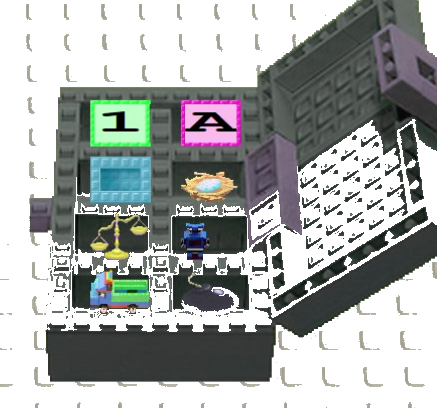
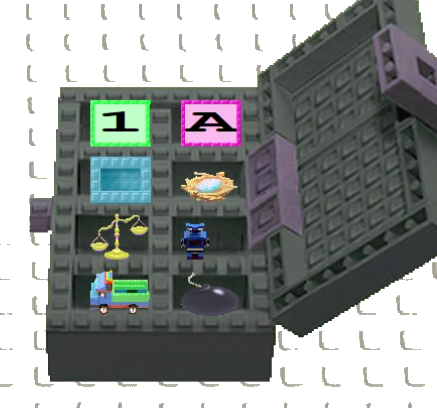
Toolbox: fix keying (dark pixels were transparent) + enlarge
The flood-fill seeds had landed on the dark grey tray and eaten the
toolbox's dark grid/lid (visible as see-through holes). Re-key from the
four corners only, so just the surrounding tan background goes transparent
and the box stays solid. Also enlarge the open toolbox (~420px) to match
the original's footprint and move the spilled hand-tools below it.

diff --git a/src/view/room.ts b/src/view/room.ts
@@ -213,16 +213,16 @@ export class Room {
     }
 
     const toolbox = this.makeToolbox();
-    toolbox.position.set(W - 170, 180);
+    toolbox.position.set(W - 235, 245);
     this.chrome.addChild(toolbox);
 
-    // Opening Tooly SPILLS the hand tools out onto the floor around it (the wand,
+    // Opening Tooly SPILLS the hand tools out onto the floor below it (the wand,
     // Dusty the vacuum, Pumpy the pump), as in the original — each is its own
     // sprite at a tilt; picking one pulls a fresh copy out at the cursor.
     const spill: Array<[string, string, number, number, number]> = [
-      ['wand', 'C', W - 250, 360, -0.25],
-      ['dusty', 'S', W - 300, 450, 0.1],
-      ['pumpy', '+', W - 180, 470, 0.2],
+      ['wand', 'C', W - 330, 505, -0.25],
+      ['dusty', 'S', W - 235, 520, 0.1],
+      ['pumpy', '+', W - 150, 505, 0.2],
     ];
     for (const [pick, badge, x, y, tilt] of spill) {
       const chip = this.makeToolChip(pick, badge, tilt);
@@ -370,7 +370,7 @@ export class Room {
     const box = new PIXI.Container();
     const sprite = new PIXI.Sprite(tex);
     sprite.anchor.set(0.5);
-    sprite.scale.set(300 / Math.max(sprite.width, 1)); // ~300px wide
+    sprite.scale.set(420 / Math.max(sprite.width, 1)); // ~420px wide (matches the original's footprint)
     box.addChild(sprite);
     const W = sprite.width;
     const H = sprite.height;
